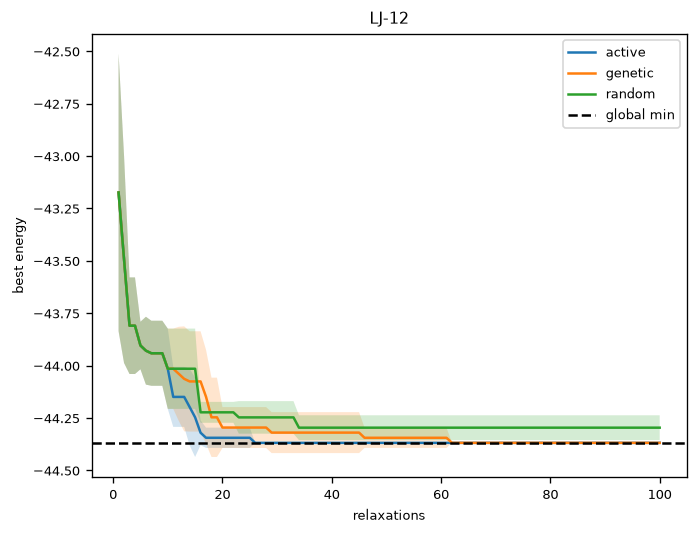
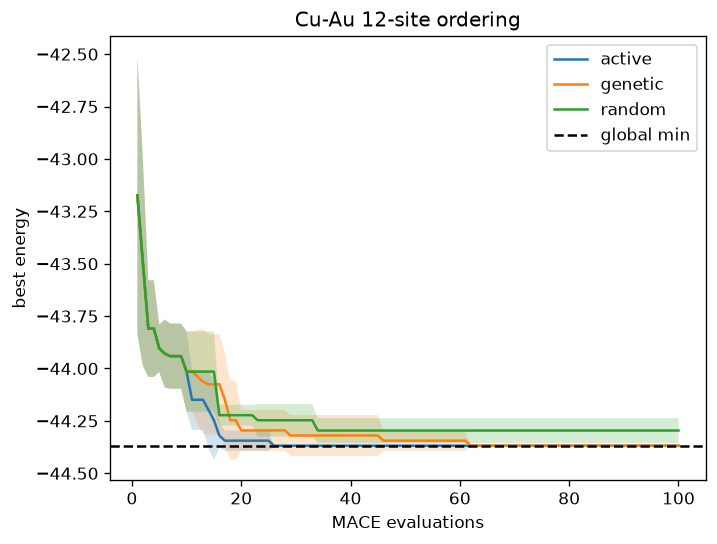
fix: label alloy convergence figure (Cu-Au/evaluations) and document shared results dir

Changed region(s): [[0.0, 0.0, 0.9928, 0.9869]]

diff --git a/atomica/plot.py b/atomica/plot.py
@@ -61,7 +61,8 @@ def write_metrics(results_dir="results", out_dir="results", tol=0.01, known_mini
         written.append(path)
     return written
 
-def make_figures(results_dir="results", out_dir="results", known_minima=None):
+def make_figures(results_dir="results", out_dir="results", known_minima=None,
+                  title_fmt="LJ-{n}", xlabel="relaxations"):
     km = KNOWN_MINIMA if known_minima is None else known_minima
     runs = _load(results_dir)
     ns = sorted({n for (n, _) in runs})
@@ -79,7 +80,7 @@ def make_figures(results_dir="results", out_dir="results", known_minima=None):
             plt.fill_between(x, mean - std, mean + std, alpha=0.2)
         if n in km:
             plt.axhline(km[n], ls="--", color="k", label="global min")
-        plt.xlabel("relaxations"); plt.ylabel("best energy"); plt.title(f"LJ-{n}"); plt.legend()
+        plt.xlabel(xlabel); plt.ylabel("best energy"); plt.title(title_fmt.format(n=n)); plt.legend()
         path = str(Path(out_dir) / f"convergence_N{n}.png")
         plt.savefig(path, dpi=120, bbox_inches="tight"); plt.close()
         written.append(path)

diff --git a/tests/test_run_alloy.py b/tests/test_run_alloy.py
@@ -11,9 +11,14 @@ def test_cli_smoke(tmp_path, monkeypatch):
 def test_run_alloy_merges_known_minima(tmp_path, monkeypatch):
     monkeypatch.setattr(run_alloy, "evaluate", lambda config, n_sites=12: float(sum(config)))
     captured = {}
-    def fake_make_figures(results_dir="results", out_dir="results", known_minima=None):
+    def fake_make_figures(results_dir="results", out_dir="results", known_minima=None,
+                           title_fmt="LJ-{n}", xlabel="relaxations"):
         captured["km"] = known_minima
+        captured["title_fmt"] = title_fmt
+        captured["xlabel"] = xlabel
         return []
     monkeypatch.setattr(run_alloy, "make_figures", fake_make_figures)
     run_alloy.main(["--budget", "6", "--seeds", "1", "--methods", "random", "--out", str(tmp_path)])
     assert 12 in captured["km"] and 13 in captured["km"] and 38 in captured["km"]
+    assert captured["title_fmt"] == "Cu-Au {n}-site ordering"
+    assert captured["xlabel"] == "MACE evaluations"

diff --git a/atomica/run_alloy.py b/atomica/run_alloy.py
@@ -16,13 +16,14 @@ def main(argv=None):
     a = p.parse_args(argv)
 
     gt_path = Path(a.out) / "alloy_ground_truth.json"
-    min_e, best_cfg, _ = brute_force_min(evaluate, N_SITES, N_AU, cache_path=gt_path)
+    min_e, _, _ = brute_force_min(evaluate, N_SITES, N_AU, cache_path=gt_path)
 
     methods = {name: METHODS[name] for name in a.methods}
     run_alloy_benchmark(methods, list(range(a.seeds)), a.budget,
                         evaluate, N_SITES, N_AU, out_dir=a.out)
     known = {**KNOWN_MINIMA, N_SITES: min_e}
-    make_figures(results_dir=a.out, out_dir=a.out, known_minima=known)
+    make_figures(results_dir=a.out, out_dir=a.out, known_minima=known,
+                 title_fmt="Cu-Au {n}-site ordering", xlabel="MACE evaluations")
     write_metrics(results_dir=a.out, out_dir=a.out, known_minima=known)
 
 if __name__ == "__main__":

diff --git a/README.md b/README.md
@@ -99,6 +99,10 @@ Run it:
 python3 -m atomica.run_alloy --budget 100 --seeds 5 --out results
 ```
 
+> Note: `run.py` (LJ) and `run_alloy.py` (alloy) both write to `results/` by
+> default. Run them into separate directories (e.g. `--out results/alloy`) if
+> you keep both, otherwise each regenerates the other's figures.
+
 ### Result
 
 Brute-forced global minimum: **−44.36847 eV**, config (Au on sites)
